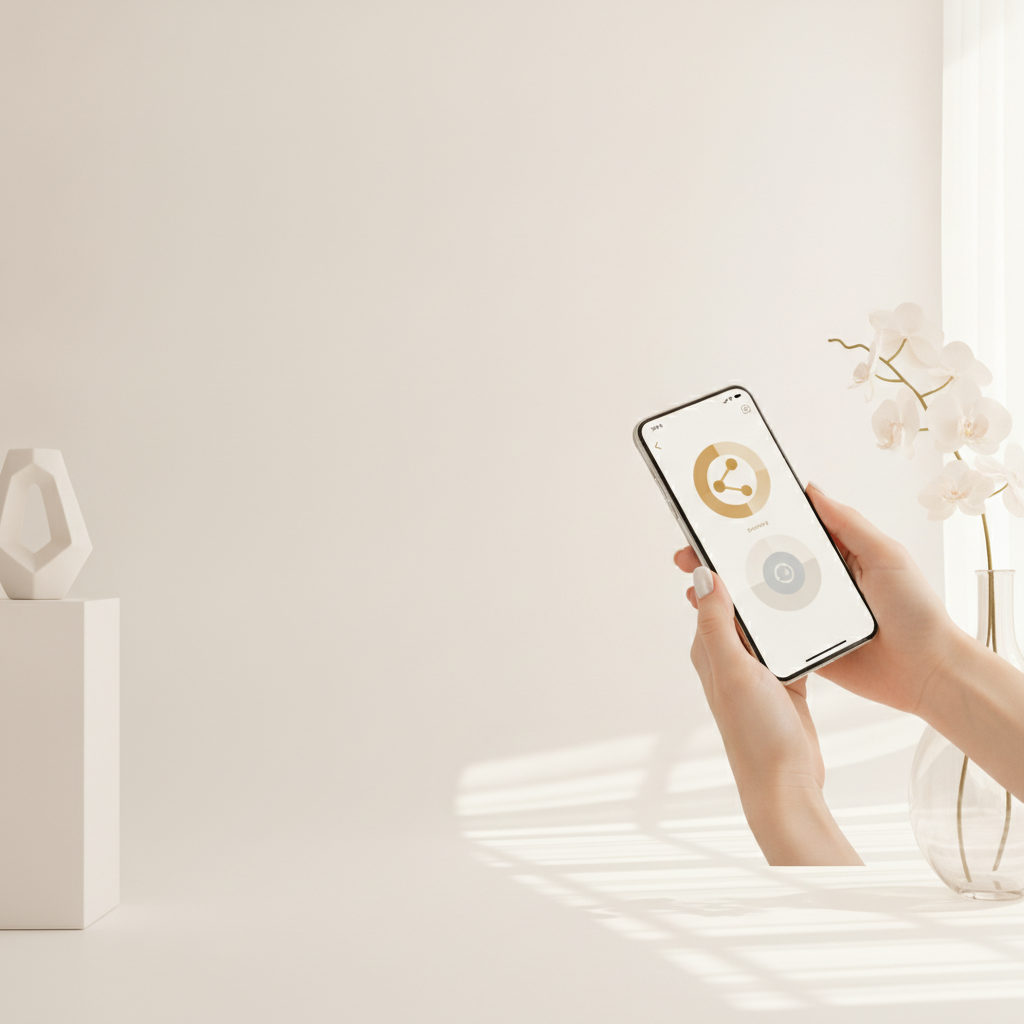
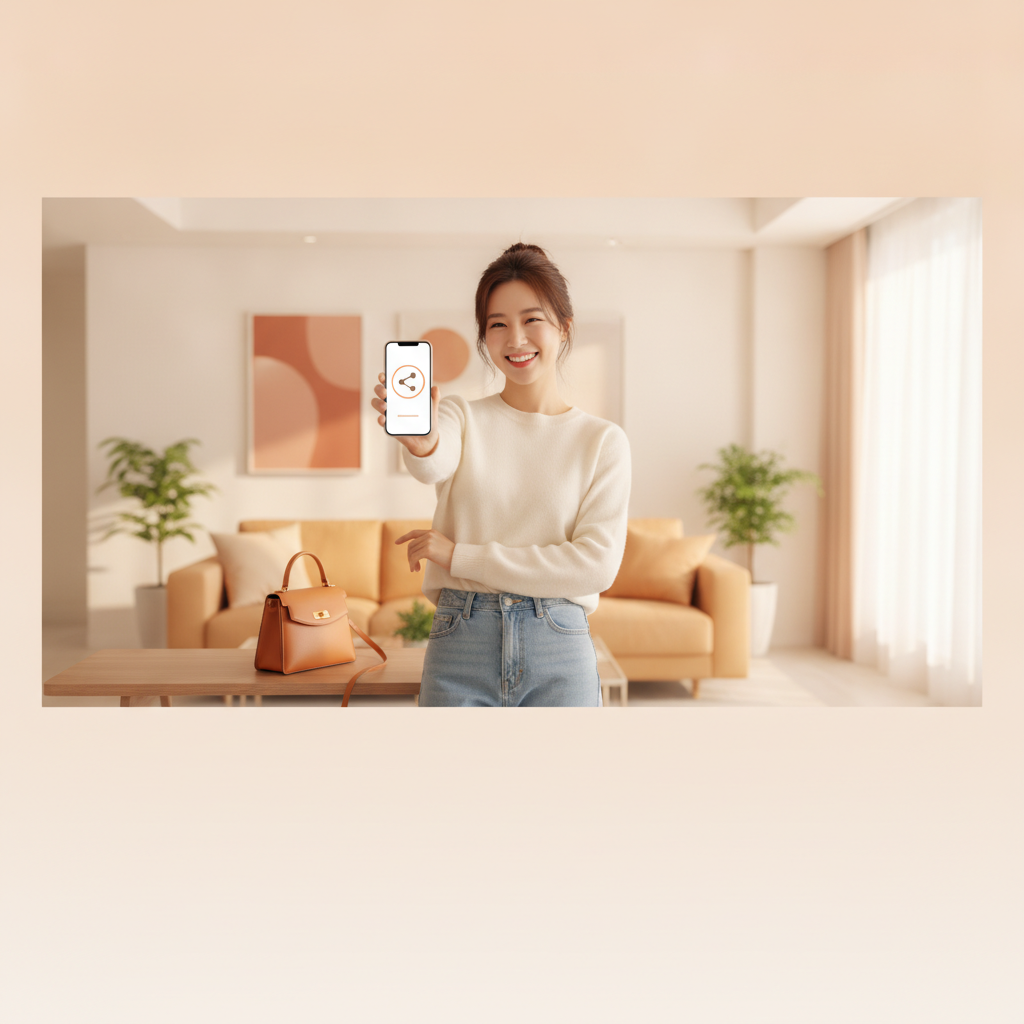
배너 이미지 교체: 친근·밝은 톤 + 하단 여백(글자 자리)

diff --git a/scripts/gen_banners.ts b/scripts/gen_banners.ts
@@ -8,13 +8,15 @@ const MODEL = process.env.GEMINI_IMAGE_MODEL || "gemini-2.5-flash-image";
 const OUT = "/Users/leegeungjeong/lgj-aiagent/docs/banners";
 
 const NO_TEXT = "Absolutely no text, no letters, no numbers, no words, no watermark, no logo overlay in the image.";
-const BASE = "A premium wide 16:9 banner image for a luxury e-commerce homepage. Photorealistic, high-end luxury brand campaign quality, warm elegant color grading.";
+const BASE = "A friendly, warm and eye-catching wide 16:9 banner image for a luxury shopping app homepage. Bright, inviting and approachable (NOT cold, dark or overly austere). Vibrant but tasteful colors, cheerful mood, photorealistic, clear focal point.";
+// 글자는 배너 하단에 깔리므로, 이미지 여백도 '아래쪽'에 두게 지시
+const BOTTOM_SPACE = "Composition: keep the main subject in the UPPER TWO-THIRDS of the frame; leave the BOTTOM THIRD as a clean, simple, uncluttered smooth area for text overlay. Do NOT put empty space on the left or right sides.";
 
 const BANNERS = [
-  { name: "1_boutique_신뢰", prompt: `${BASE} An elegant Italian luxury boutique interior: warm marble floor, wood shelving displaying designer handbags, soft golden ambient lighting, cinematic editorial mood, cream and beige tones. Generous empty copy space on the right side for text. ${NO_TEXT}` },
-  { name: "2_event_첫판매20", prompt: `${BASE} A sophisticated hand holding a smartphone showing a shopping/share screen, an elegant designer handbag placed beside it on a warm cream surface, soft natural light, minimal premium styling. Generous empty copy space on the left side for text. ${NO_TEXT}` },
-  { name: "3_timesale_긴박", prompt: `${BASE} A dramatic luxury still life conveying a limited-time sale: a golden hourglass with sand flowing, next to a designer handbag, deep burgundy and gold color palette, dramatic directional lighting, sense of urgency and exclusivity. Empty copy space for text. ${NO_TEXT}` },
-  { name: "4_onboarding", prompt: `${BASE} A clean bright modern studio scene for onboarding new sellers: a smartphone displaying a simple sharing interface, minimal luxury aesthetic, airy soft daylight, lots of negative space, uncluttered. Generous empty copy space for text. ${NO_TEXT}` },
+  { name: "1_boutique_신뢰", prompt: `${BASE} A cheerful young Korean woman with a natural happy smile joyfully discovering designer handbags in a bright, welcoming Italian-style boutique with warm colorful lighting. Conveys the fun and joy of authentic luxury shopping. Approachable and modern. ${BOTTOM_SPACE} ${NO_TEXT}` },
+  { name: "2_event_첫판매20", prompt: `${BASE} A happy, excited young Korean person smiling brightly while looking at their smartphone, with playful floating golden coins and a small gift box around them suggesting a cash reward, a stylish designer handbag beside them, cheerful warm colors (cream, coral, gold), celebratory upbeat mood. Clearly conveys earning money easily by sharing. ${BOTTOM_SPACE} ${NO_TEXT}` },
+  { name: "3_timesale_긴박", prompt: `${BASE} An energetic, upbeat scene for a limited-time commission boost: a bright cheerful alarm clock or stopwatch with dynamic upward arrows and sparkles suggesting a rising boost, a stylish designer handbag nearby, vibrant warm colors (coral, gold, warm red), exciting 'now is the time' energy that feels fun and friendly, not scary. ${BOTTOM_SPACE} ${NO_TEXT}` },
+  { name: "4_onboarding", prompt: `${BASE} A friendly, relatable young Korean person cheerfully holding a smartphone that shows a simple share button, in a bright airy modern room with warm inviting colors, easygoing approachable mood, a subtle stylish handbag in the frame. Clearly conveys 'anyone can start easily and quickly'. ${BOTTOM_SPACE} ${NO_TEXT}` },
 ];
 
 async function gen(prompt: string) {
